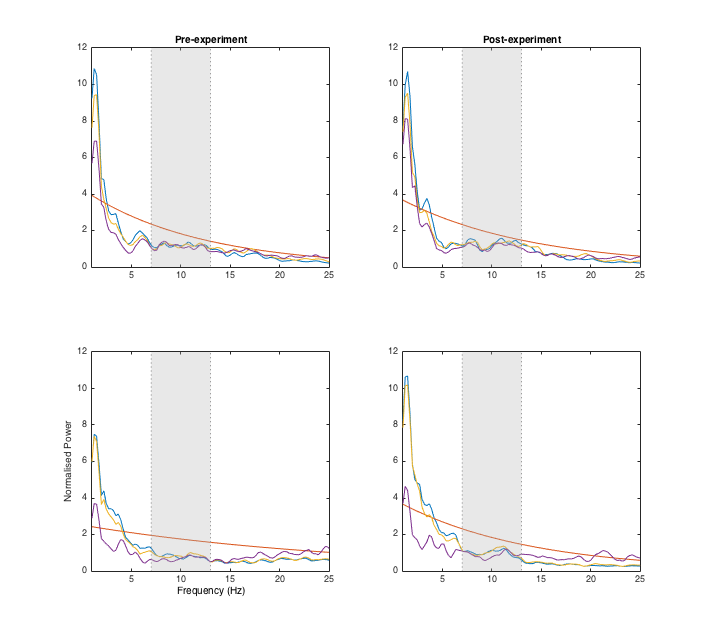
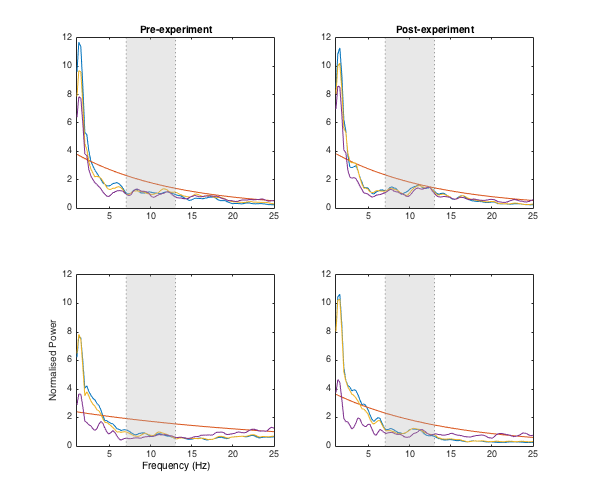
more updates

diff --git a/iaf_manu.md b/iaf_manu.md
@@ -441,17 +441,18 @@ Post-experiment resting-state EEG recordings were missing for three participants
 These individuals thus contributed only one set of channel estimates each to the following analysis.
 A further 11 channels were excluded from analysis on the basis of excessive kurtosis (note, no more than 1 channel was rejected from any given recording).
 This left a grand total of 1096 PSDs to estimate across the sample (561 pre- and 535 post-experiment spectra).
-From these channel data, a total 948 PAF estimates (pre = 472, post = 476) and 1009 CoG estimates (pre = 506, post = 503) were extracted across all recordings.
+From these channel data, a total 944 PAF estimates (pre = 480, post = 464) and 1003 CoG estimates (pre = 507, post = 496) were extracted across all recordings.
 
 [Fig_stacked_chans](#stacked_chans) shows the relative distribution of channel estimates derived from all participants.
 This figure indicates that the estimation routine derived PAF and CoG estimates from most (if not all) available channels in the majority of cases.
-Of those participants who registered a limited number of channel estimates, two (#29 and #50) failed to surpass the minimal threshold (i.e. $cMin = 3$) required for $PAF_M$ and $CoG_M$ estimation. 
-This result indicates that these participants should be excluded from IAF-related analyses on account of the general lack of alpha-band activity in the majority of their channel spectra.
+Of those participants who registered a limited number of channel estimates, two (#29 and #50) failed to surpass the minimal threshold (i.e. $cMin = 3$) required for $PAF_M$ estimation. 
+This result indicates that these participants should be excluded from PAF-related analyses on account of the general lack of any concerted alpha-band activity across the majority of their channel spectra.
 Visual inspection of these individuals' PSD plots confirmed that neither participant's data demonstrated compelling evidence of a distinct alpha peak component ([Fig_no_pafs](#no_pafs)).
+Note that the CoG estimator was able to extract an estimate of $CoG_M$ for one of these participant's (#29) post-experiment EEG recording.
 
 ![*Fig_stacked_chans.* Stacked bar chart displaying the number of channels from which PAF (purple and blue segments) and CoG (green and yellow segments) estimates were derived across participants. PAF and CoG estimates are further divided according to EEG recording (purple/green = pre-experiment, blue/yellow = post-experiment). Totals normalised to take into account excluded channels. Note, post-experiment data were unavailable for participants #26, #56, and #57.](figs/stacked_chans.png){#stacked_chans}
 
-![*Fig_no_pafs.* Representative channel PSDs (three superposed channel spectra) from two sets of EEG recordings in which the IAF estimation routine failed to detect evidence of substantive alpha rhythm activity (top row: participant #29; bottom row: participant #50). Shaded areas indicate range of the alpha peak search window $W_\alpha$; red curve indicates a representative $minP$ threshold.](figs/no_pafs.png){#no_pafs}
+![*Fig_no_pafs.* Representative channel PSDs (three superposed channel spectra) from two sets of EEG recordings in which the IAF estimation routine failed to detect evidence of any substantive alpha peak activity (top row: participant #29; bottom row: participant #50). Shaded areas indicate range of the alpha peak search window $W_\alpha$; red curve indicates a representative $minP$ threshold.](figs/no_pafs.png){#no_pafs}
 
 #### 3.1.2 Estimator distributions & correlation coefficients
 Consistent with previous reports [@kopruner1984;@klimesch1990], mean estimates of IAF were centred about 10 Hz, with the majority of estimates falling in the range of 9 to 11 Hz.
@@ -588,7 +589,7 @@ We note also that our SGF method resulted in a higher proportion of PAF estimate
 It may be the case then that our non-parametric approach, which attempts to smooth the PSD rather than fit a specified function to it, retains more data (i.e. excludes fewer individuals from IAF-related analyses) by virtue of its capacity to accommodate a broader range of alpha-band distributions.
 
 While we cannot categorically rule out the possiblity that sampling error furnished us with a dataset comprised of an unusually high number of individuals manifesting singular, unambiguous alpha peaks, it is encouraging that the SGF technique was able to estimate such a high proportion of PAFs and CoGs.
-By the same token, it is also reassuring that the two cases in which the technique was not able to extract IAF estimates did not demonstrate compelling evidence of any concerted alpha-band activity on visual inspection of the relevant PSD plots ([Fig_no_pafs](#no_pafs)).
+By the same token, it is also reassuring that the two cases in which the technique was not able to extract PAF estimates did not demonstrate compelling evidence of any concerted alpha-band activity on visual inspection of the relevant PSD plots ([Fig_no_pafs](#no_pafs)).
 It is perhaps also worth pointing out that the diverse age range of participants sampled within this study would most likely have posed a robust challenge to any automated peak frequency routine, given the typically reported changes in spectral power and alpha peak distribution associated with older adulthood [e.g., @dustman1999].
 That the automated IAF estimation technique reported here was able to extract estimates for the vast majority of individuals, and that it did so using a fixed set of a priori-defined parameters assigned on the basis of preliminary testing in an independent dataset, speaks to its capacity to derive resting-state IAF estimates across a broad spectrum of the healthy population.
 
